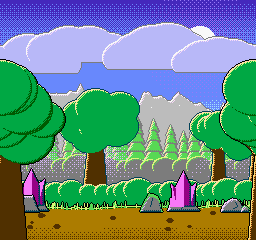
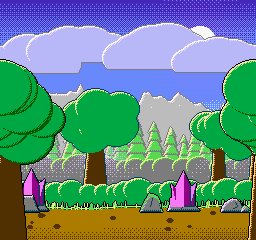
Andar do pinheiro em degraus iguais e dica do contraste entre camadas (#64)
* fix: andar do pinheiro em degraus iguais e dica do contraste entre camadas

- andar do pinheiro: altura múltipla da meia largura no lado íngreme e pé no compasso do primeiro andar (2,2,2 e não 2,2,3)
- revisar: camada sem contraste com a de trás ganha a dica de separar essa camada, e a dica da frente só sai quando a frente não lê
- guia composicao: grade fechada do NES junta profundidades perto

* chore: regrava os exemplos e os GIFs do README

Changed region(s): [[0.4062, 0.4958, 0.8438, 0.6708], [0.1875, 0.5833, 0.3125, 0.6708]]

diff --git a/pixel_atelier/formas/arvore.py b/pixel_atelier/formas/arvore.py
@@ -16,6 +16,21 @@ TIPOS = ("pinheiro", "copa", "seca", "mista")
 PROPORCAO = {"pinheiro": 0.42, "copa": 0.72, "seca": 0.55}
 
 
+def _andar(y_baixo: float, alto: float, meia: int, topo: float, compasso: int) -> tuple[int, float]:
+    """Pé e ponta do andar. O lado íngreme cai em degraus iguais (2,2,2 e não 2,2,3): a altura vira
+    múltiplo da meia largura, e o pé desce até o compasso do primeiro andar para o degrau de um andar
+    não cair no meio do degrau do andar de baixo."""
+    y_baixo = round(y_baixo)
+    alto = min(alto, y_baixo - topo)
+    ingreme = alto >= 1.5 * meia
+    if not ingreme:
+        return y_baixo, y_baixo - alto
+    degrau = round(alto / meia)
+    y_baixo += (compasso - y_baixo) % degrau
+    degrau = max(1, min(degrau, int((y_baixo - topo) / meia)))
+    return y_baixo, y_baixo - degrau * meia
+
+
 def _pinheiro(tela: Tela, x: float, base: float, h: float, w: float, r: random.Random) -> list[Peca]:
     pecas = []
     tronco = tela.nova_mascara()
@@ -24,13 +39,13 @@ def _pinheiro(tela: Tela, x: float, base: float, h: float, w: float, r: random.R
     pecas.append(Peca(tronco, "tronco"))
     andares = max(3, min(8, int(h / 10)))
     altura_andar = h * 0.85 / andares
+    compasso = round(base - h * 0.12)
     for i in range(andares):
-        y_baixo = base - h * 0.12 - altura_andar * i
-        y_topo = max(base - h, y_baixo - altura_andar * 1.9)
-        meia = w * 0.5 * (1.0 - 0.78 * i / andares) * r.uniform(0.9, 1.08)
-        torto = r.uniform(-0.6, 0.6)
+        meia = max(1, round(w * 0.5 * (1.0 - 0.78 * i / andares) * r.uniform(0.9, 1.08)))
+        ponta = round(x + r.uniform(-0.6, 0.6))
+        y_baixo, y_topo = _andar(compasso - altura_andar * i, altura_andar * 1.9, meia, base - h, compasso)
         m = tela.nova_mascara()
-        tela.poligono(m, [(x - meia, y_baixo), (x + torto, y_topo), (x + meia, y_baixo), (x, y_baixo - 1)])
+        tela.poligono(m, [(ponta - meia, y_baixo), (ponta, y_topo), (ponta + meia, y_baixo), (x, y_baixo - 1)])
         pecas.append(Peca(m, "folha"))
     return pecas
 

diff --git a/pixel_atelier/revisao.py b/pixel_atelier/revisao.py
@@ -142,6 +142,8 @@ TEMPO_MINIMO = 20  # ms; GIF com 0 ou 10 ms o navegador toca a 100 ms
 TEMPO_MAXIMO = 300  # ms; o quadro mais lento da tabela de tempo do guia (parado, respiração)
 DICA_CONTRASTE = ("aumente o contraste de valor da frente (clareie ou escureça a frente ou o contorno), "
                   "nunca escureça nem apague o fundo")
+DICA_CAMADAS = ("separe {nome} da camada de trás mexendo nela: afaste a `profundidade` dela ou troque o `papel`; "
+                "numa grade fechada (NES) as duas podem cair na mesma cor e o passo precisa ser maior (guia composicao)")
 
 VIZINHOS = ((1, 0), (-1, 0), (0, 1), (0, -1))
 LADOS = {(0, -1): "topo", (0, 1): "base", (-1, 0): "esquerda", (1, 0): "direita"}
@@ -542,9 +544,12 @@ def _contraste(pares: list[tuple[str, list[tuple[int, int, float]]]]) -> Checage
         partes.append(f"entre camadas mín {_medida(pior[1], CONTRASTE_CAMADAS)} em {pior[0]} (mín {CONTRASTE_CAMADAS:.2f})")
     if ruins:
         partes.append("baixo em " + ", ".join(f"{n} {_medida(m, CONTRASTE_CAMADAS)}" for n, m in ruins[:3]))
-    alerta = frente < CONTRASTE_FRENTE or bool(ruins)
-    if alerta:
+    frente_fraca = frente < CONTRASTE_FRENTE
+    if ruins:
+        partes.append(DICA_CAMADAS.format(nome=ruins[0][0]))
+    if frente_fraca:
         partes.append(DICA_CONTRASTE)
+    alerta = frente_fraca or bool(ruins)
     return Checagem("contraste", "alerta" if alerta else "ok", "; ".join(partes))
 
 

diff --git a/tests/test_geracao.py b/tests/test_geracao.py
@@ -208,3 +208,15 @@ def test_linha_de_comando_revisar_com_geracao(tmp_path, capsys):
     _cena_com_cores(40).save(cena)
     main(["revisar", str(cena), "--geracao", "8"])
     assert "(limite 25)" in capsys.readouterr().out
+
+
+@pytest.mark.parametrize("numero", [61, 63])
+def test_pinheiro_da_cena_de_exemplo_sem_degrau_fora_do_2(numero):
+    receita = json.loads((EXEMPLOS / "snes-diurno.json").read_text(encoding="utf-8"))
+    receita.pop("tamanho")
+    receita["geracao"] = numero
+    for camada in receita["camadas"]:
+        camada["seed"] += 100
+    resultado = gerar(receita)
+    revisao = revisar(resultado.composto, camadas=[c.imagem for c in resultado.camadas], estilo=resultado.receita.estilo)
+    assert regra(revisao, "linha 2:1").estado == "ok"

diff --git a/tests/test_formas.py b/tests/test_formas.py
@@ -175,3 +175,17 @@ def test_nevoa_enche_mais_com_mais_densidade():
         return alfa.histogram()[255]
 
     assert 0 < acesos(0.05) < acesos(0.3) < acesos(0.6)
+
+
+@pytest.mark.parametrize("y_baixo, alto, meia", [(130.4, 21.7, 7), (101.0, 13.2, 4), (77.6, 30.9, 9), (60.0, 18.4, 10)])
+def test_andar_do_pinheiro_cai_em_degraus_iguais_no_compasso_do_primeiro(y_baixo, alto, meia):
+    from pixel_atelier.formas.arvore import _andar
+    compasso = 151
+    pe, ponta = _andar(y_baixo, alto, meia, 20.0, compasso)
+    altura = pe - ponta
+    ingreme = altura >= 1.5 * meia
+    if ingreme:
+        degrau = altura // meia
+        assert altura == degrau * meia and (compasso - pe) % degrau == 0
+    else:
+        assert pe == round(y_baixo)

diff --git a/tests/test_revisao.py b/tests/test_revisao.py
@@ -119,6 +119,7 @@ def test_camadas_do_meio_sem_contraste_entre_si():
     frente = caixa(48, 48, cinza(250), (20, 4, 28, 20))
     c = regra(revisar(compor([fundo, meio, frente]), camadas=[fundo, meio, frente]), "contraste")
     assert c.estado == "alerta" and "baixo em 02" in c.detalhe
+    assert "separe 02 da camada de trás" in c.detalhe and DICA_CONTRASTE not in c.detalhe  # a frente já lê
 
 
 def test_sprite_sobre_fundo_na_posicao():

diff --git a/pixel_atelier/guia/composicao.md b/pixel_atelier/guia/composicao.md
@@ -32,7 +32,7 @@ Cena de jogo em camadas: o fundo dá o clima, a camada da ação precisa ler em 
 
 ## Como pedir
 - Camadas do fundo para a frente; `profundidade` de 1 (longe) a 0 (perto) puxa as cores para a atmosfera do estilo.
-- Separação entre camadas: afaste as `profundidade` de camadas vizinhas (0,85 e 0,65 já é pouco no noturno; 0,95 e 0,65 separa) ou troque o `papel` de uma delas.
+- Separação entre camadas: afaste as `profundidade` de camadas vizinhas (0,85 e 0,65 já é pouco no noturno; 0,95 e 0,65 separa) ou troque o `papel` de uma delas. Mexa na camada da frente do par, não na de trás. Numa grade fechada (8 bits, a do NES) duas profundidades perto podem cair na mesma cor da grade: no noturno em 8 bits, pinheiros a 0,65 e montanhas a 0,95 viram os dois `#004058`, e os pinheiros a 0,4 já separam (0,20). A linha `contraste` diz qual camada separar.
 - Variação: `seed` por camada, `espaco`, `tamanho`, `quantidade`.
 - Conferir: `revisar cena.png` lê as camadas da pasta `<cena>/` e diz qual camada tem o contraste mais baixo. Sem a pasta, o contraste sai das silhuetas que o `revisar` separa no composto: mais fraco (camadas de cores quase iguais viram uma só), então para a cena final grave as camadas (`"saida": "tudo"`).
 
